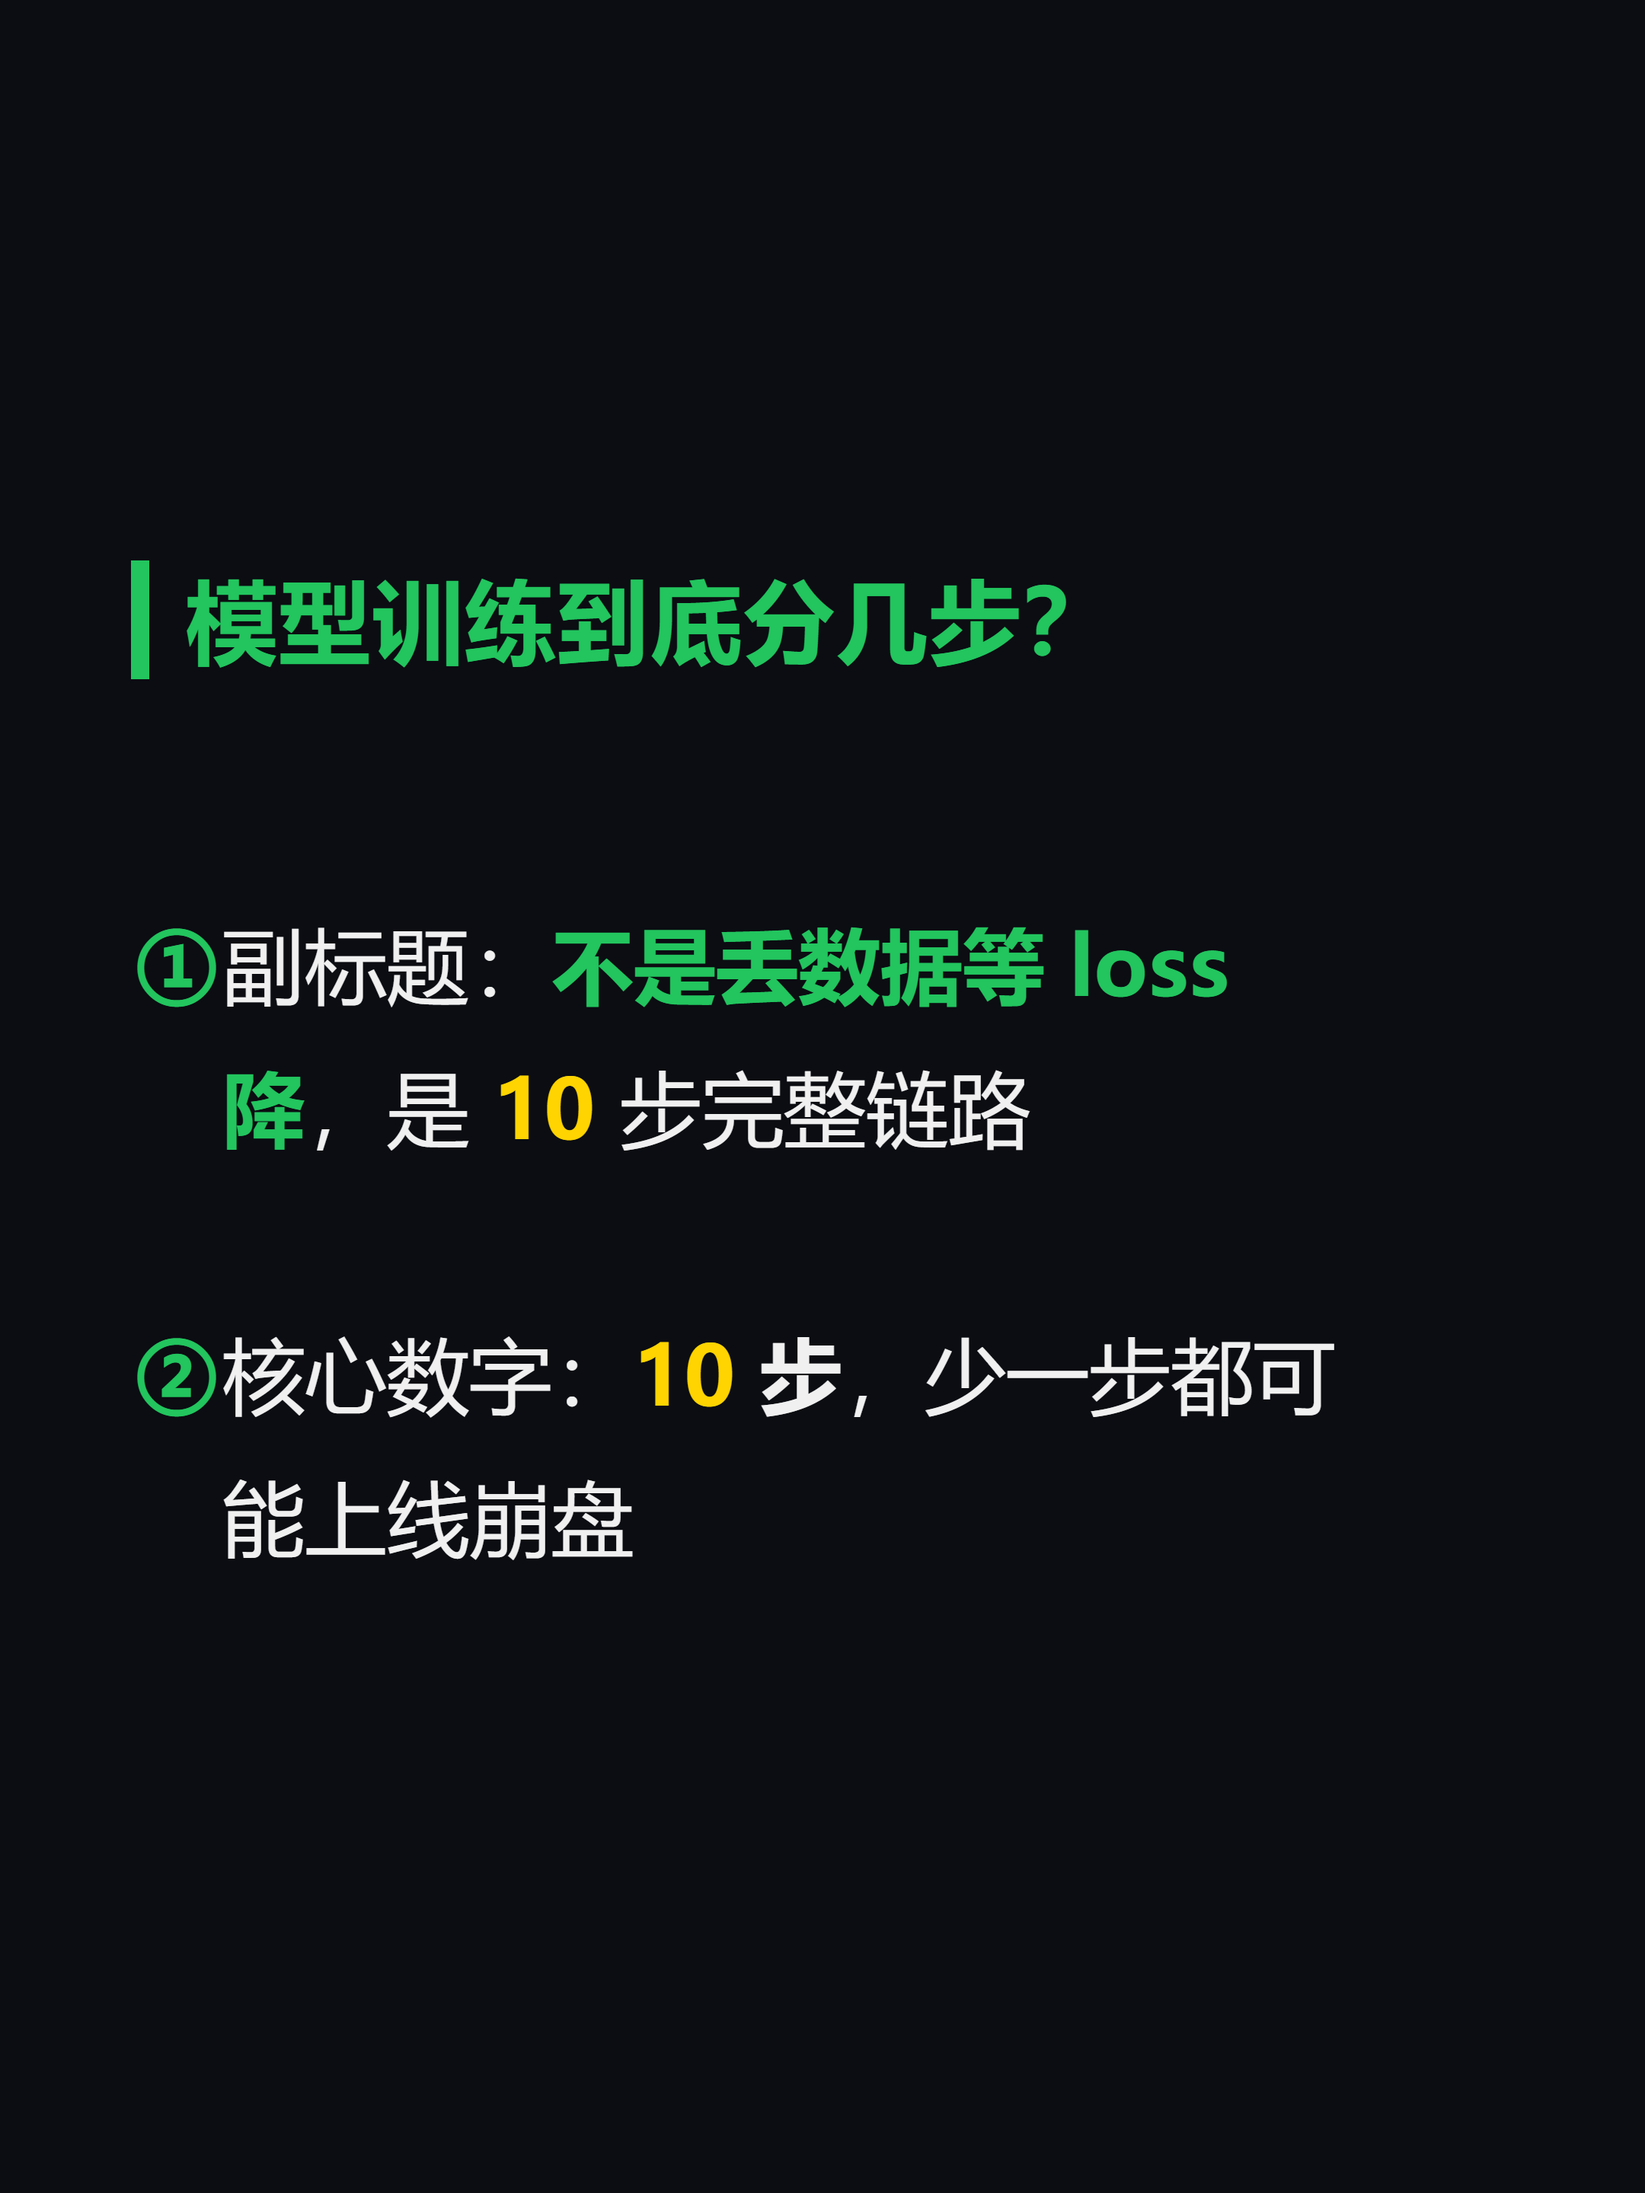
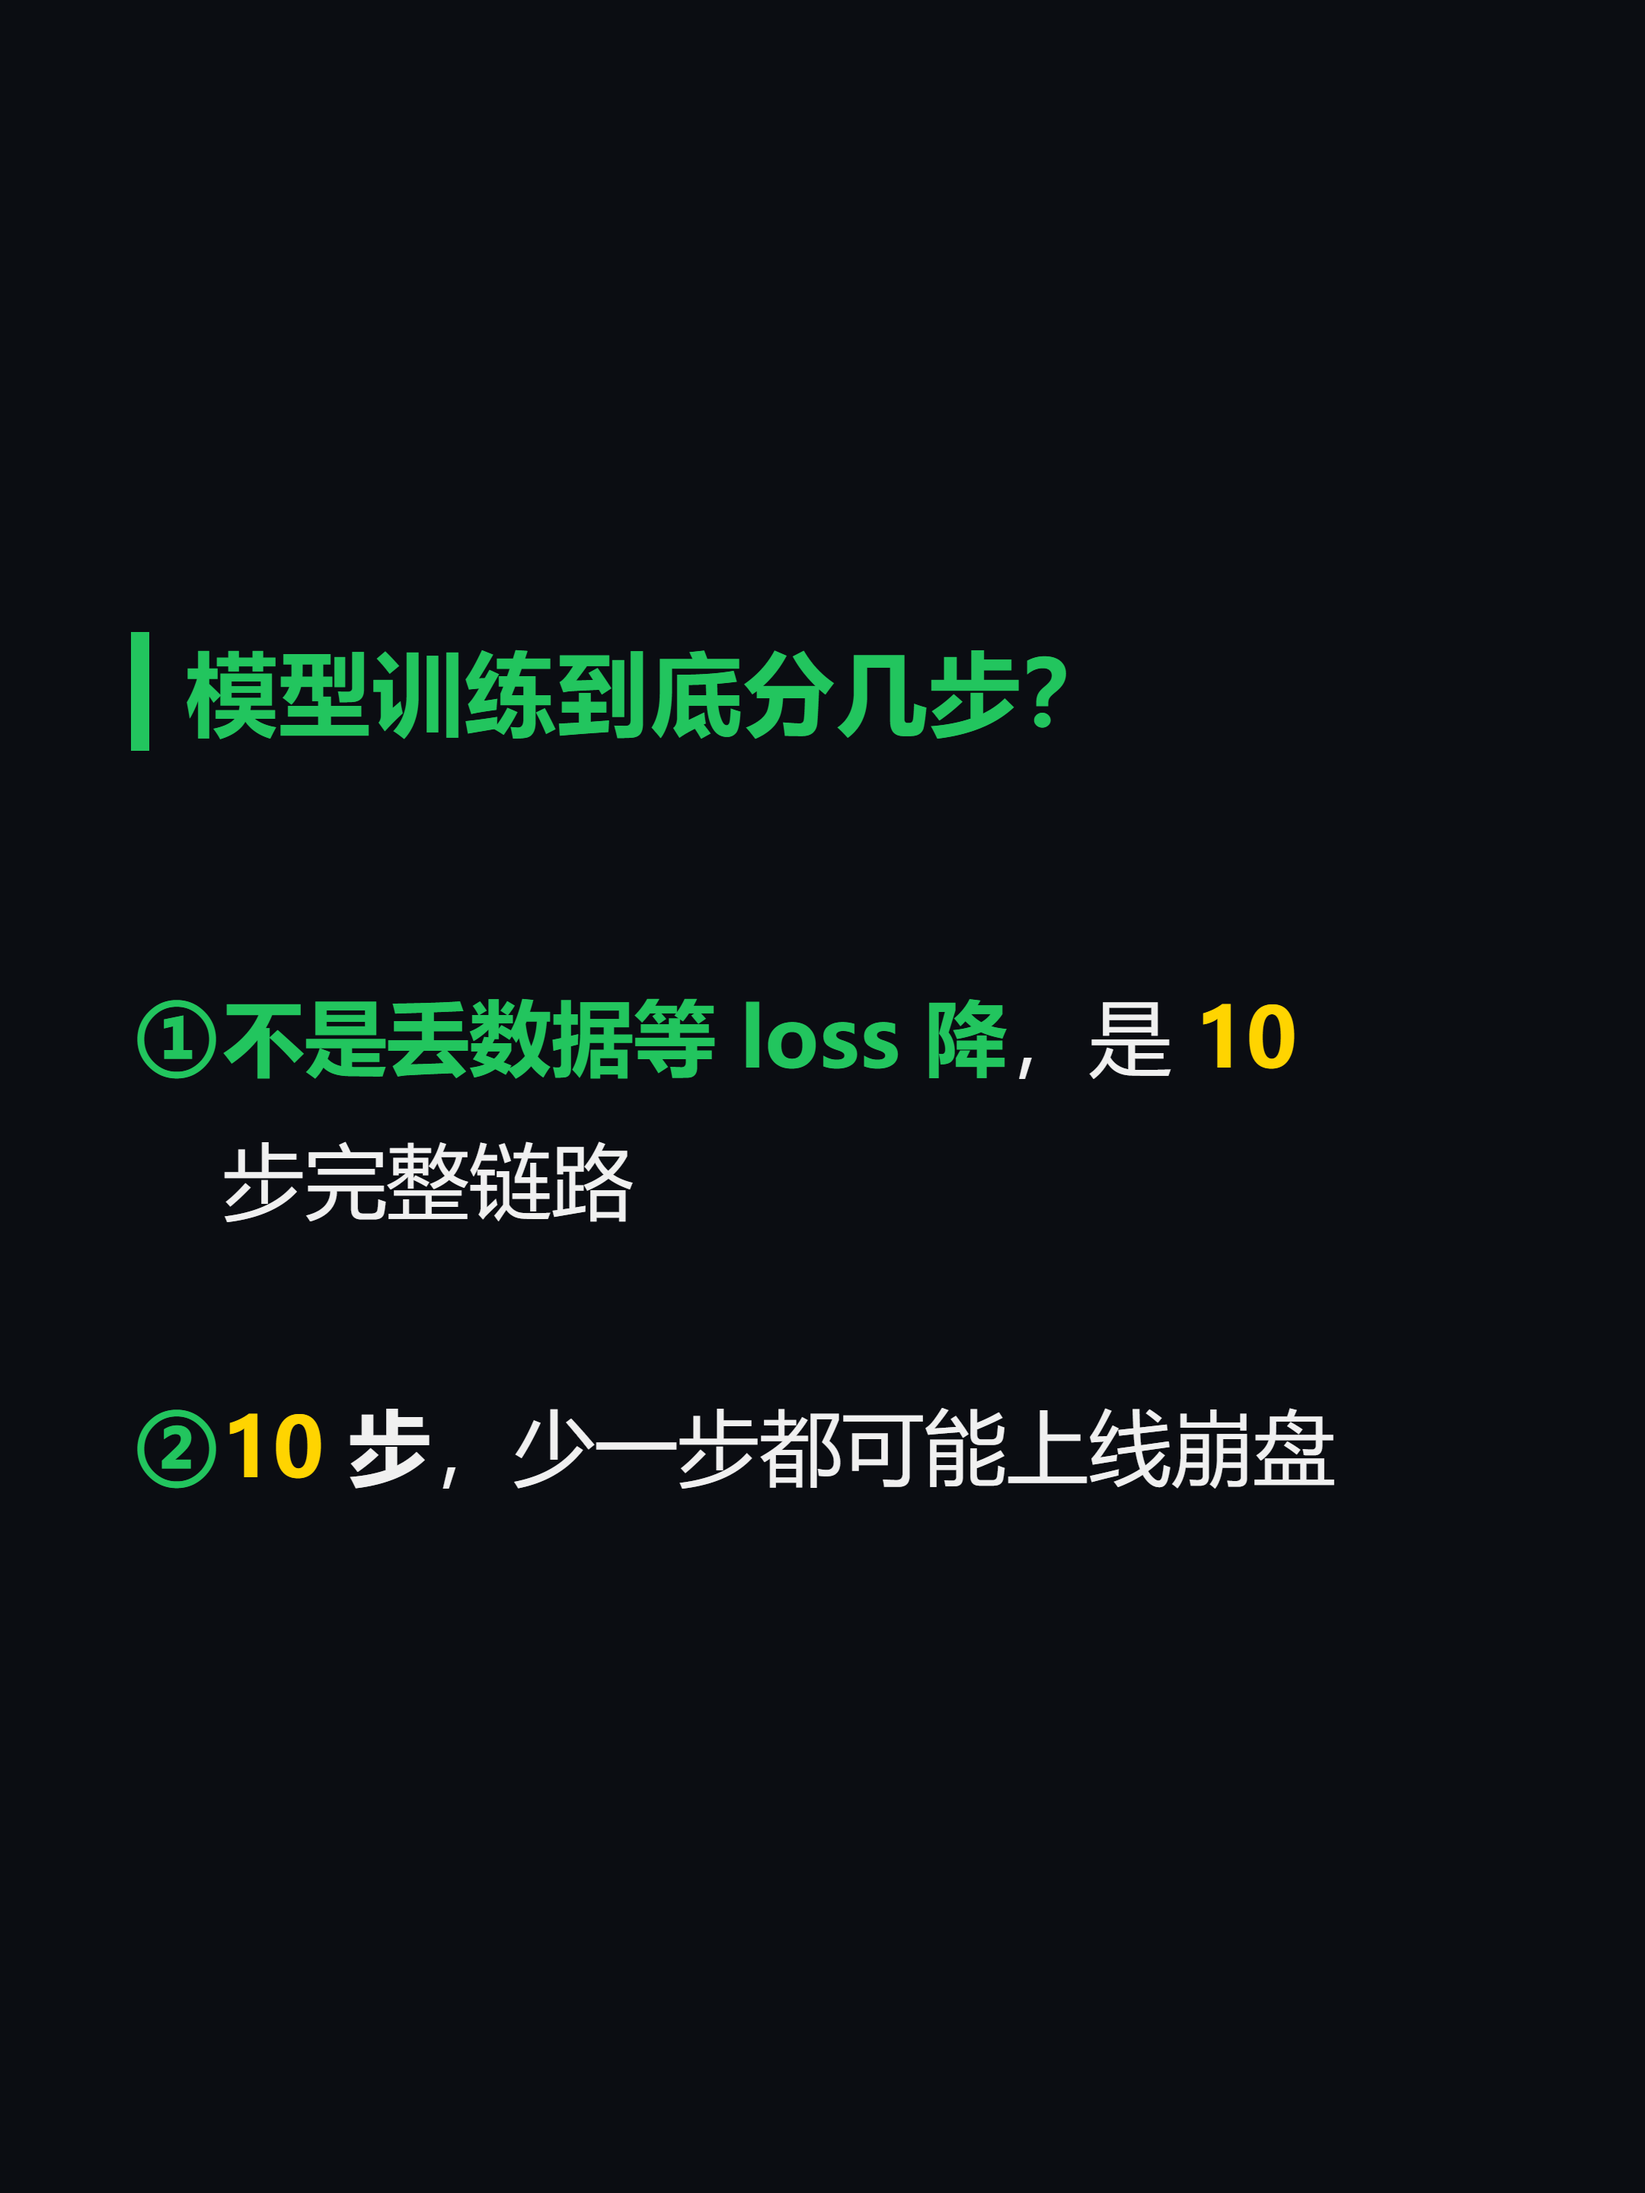
feat(douyin): 卡片公式渲染为数学排版并去除封面副标题前缀字

Changed region(s): [[0.062, 0.4062, 0.8065, 0.5625], [0.062, 0.5938, 0.8065, 0.7188], [0.062, 0.25, 0.6514, 0.3438]]

diff --git a/.trae/skills/publish-latest-doc/card_gen_html.py b/.trae/skills/publish-latest-doc/card_gen_html.py
@@ -163,23 +163,70 @@ def _escape(html_text):
     return html_text.replace('&', '&amp;').replace('<', '&lt;').replace('>', '&gt;')
 
 
-# LaTeX 兜底:把 $...$ 内的常用命令转成可读 Unicode 数学,避免 HTML 渲染反斜杠源码
+# LaTeX 兜底:把 $...$ 内的常用命令转成数学排版,避免 HTML 渲染反斜杠源码
+# 分式用 HTML 上下结构渲染成真分数,其余命令→Unicode 符号;支持上下标
 _GREEK = {r'\alpha': 'α', r'\beta': 'β', r'\gamma': 'γ', r'\Delta': 'Δ', r'\delta': 'δ',
           r'\theta': 'θ', r'\lambda': 'λ', r'\mu': 'μ', r'\rho': 'ρ', r'\sigma': 'σ',
-          r'\phi': 'φ', r'\omega': 'ω', r'\epsilon': 'ε', r'\pi': 'π'}
+          r'\phi': 'φ', r'\omega': 'ω', r'\epsilon': 'ε', r'\pi': 'π', r'\eta': 'η',
+          r'\Omega': 'Ω', r'\Sigma': 'Σ'}
 _OPS = {r'\cdot': '·', r'\times': '×', r'\pm': '±', r'\infty': '∞', r'\leq': '≤',
-        r'\geq': '≥', r'\approx': '≈', r'\neq': '≠', r'\sqrt': '√', r'\le': '≤', r'\ge': '≥'}
+        r'\geq': '≥', r'\approx': '≈', r'\neq': '≠', r'\sqrt': '√', r'\le': '≤', r'\ge': '≥',
+        r'\leftarrow': '←', r'\rightarrow': '→', r'\leftrightarrow': '↔', r'\to': '→',
+        r'\propto': '∝', r'\sum': 'Σ', r'\nabla': '∇', r'\Delta': 'Δ'}
+# 分式渲染:分子在上、横线居中、分母在下,形成真分数排版(非除式)
+_FRAC_BLOCK = ('<span style="display:inline-flex;flex-direction:column;'
+               'vertical-align:middle;text-align:center;margin:0 3px;line-height:1.25">'
+               '<span style="border-bottom:2px solid currentColor;padding:0 6px 2px">{num}</span>'
+               '<span style="padding-top:2px">{den}</span></span>')
+
+
+def _apply_map(s, mapping):
+    """按命令名长度降序替换，避免箭头命令（如 leftarrow 含 leq 前缀）被误吞；返回替换后的字符串"""
+    for cmd in sorted(mapping, key=len, reverse=True):
+        s = s.replace(cmd, mapping[cmd])
+    return s
+
+
+def _latex_subscripts(s):
+    """把 `_{...}` / `_{...}^{...}` / `^...` 转成 HTML 上下标,增强数学排版感"""
+    # 先处理带上下标的 `x_{i}^{2}` 形态:合并成上标在上、下标在下
+    s = re.sub(r'_\{([^{}]*)\}\^\{([^{}]*)\}',
+               r'<sub>\1</sub><sup>\2</sup>', s)
+    s = re.sub(r'\^\{([^{}]*)\}_\{([^{}]*)\}',
+               r'<sup>\1</sup><sub>\2</sub>', s)
+    s = re.sub(r'_\{([^{}]*)\}', r'<sub>\1</sub>', s)   # 下标
+    s = re.sub(r'\^\{([^{}]*)\}', r'<sup>\1</sup>', s)  # 上标
+    s = s.replace('^', '')                               # 残留的裸 ^ 直接去掉
+    return s
 
 
 def _latex_to_html(html_text):
-    """把 $...$ 包裹的 LaTeX 公式转成可读的 Unicode 文本,供 HTML 直接显示"""
+    """把 $...$ 包裹的 LaTeX 公式转成可读数学排版,供 HTML 直接显示"""
     def conv(m):
         s = m.group(1)
-        s = re.sub(r'\\frac\{([^{}]*)\}\{([^{}]*)\}', r'(\1) / (\2)', s)   # 分式→除式 (x-μ) / (σ)
-        for cmd, ch in _OPS.items():    s = s.replace(cmd, ch)             # 运算符命令→符号
-        for cmd, ch in _GREEK.items():  s = s.replace(cmd, ch)             # 希腊字母命令→Unicode
-        s = s.replace('^', '').replace('{', '').replace('}', '')           # 去掉幂记号与花括号
-        s = s.replace('\\', '').replace('$', '').replace("'", '′')         # 清残留反斜杠/撇转成撇号
+        # ① 分式 → 真分数(上下结构);支持嵌套一层,分子/分母内部先做简单转换
+        def frac_repl(mm):
+            num = _frac_inner(mm.group(1))
+            den = _frac_inner(mm.group(2))
+            return _FRAC_BLOCK.format(num=num, den=den)
+        def _frac_inner(part):
+            part = re.sub(r'\\frac\{([^{}]*)\}\{([^{}]*)\}',
+                          lambda mm: _FRAC_BLOCK.format(num=_frac_inner(mm.group(1)),
+                                                        den=_frac_inner(mm.group(2))),
+                          part)
+            part = _latex_subscripts(part)
+            part = _apply_map(part, _OPS)
+            part = _apply_map(part, _GREEK)
+            return part
+        s = re.sub(r'\\frac\{([^{}]*)\}\{([^{}]*)\}', frac_repl, s)
+        # ② 上下标
+        s = _latex_subscripts(s)
+        # ③ 运算符 / 希腊字母 → Unicode(按命令名长度降序,避免前缀误吞)
+        s = _apply_map(s, _OPS)
+        s = _apply_map(s, _GREEK)
+        # ④ 清理残留:花括号、反斜杠、美元符;撇号转成撇号
+        s = s.replace('{', '').replace('}', '').replace('\\', '').replace('$', '')
+        s = s.replace("'", '′')
         return s.strip()
     # 仅处理成对 $...$;未闭合的 $ 保持原样,不破坏页面
     return re.sub(r'\$(.+?)\$', conv, html_text)
